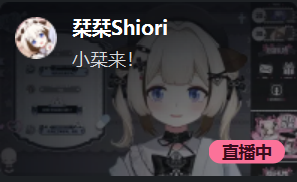
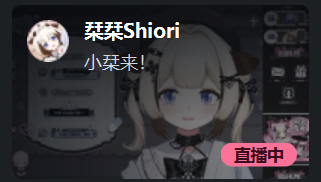
revert(v3/03): 回退「四张队列重排」与「3D 侧转 + 卡片重裁」两步
用户 2026-09-22：回退两步。依次回退：
- 65fe57c fix(v3/03): 队列改成四张，按用户红框的间距与缩小比例重排
- a98ad16 feat(v3/03): 卡片加 3D 侧转 + 重裁去掉卡外灰边（位置先定下来）

回到 40bf99c 的状态：五张卡（间距 326 / 卡宽 600）、卡片图仍带 12px 灰边、
没有 rotationY 侧转。第 3、4 条改动随时可以从这两个提交里挑回来。

diff --git a/videos/dd-monitor-ce-promo/compositions/v3/18-03-hover.html b/videos/dd-monitor-ce-promo/compositions/v3/18-03-hover.html
@@ -55,13 +55,11 @@
       .head .s { margin-top: 16px; font-size: 36px; font-weight: 600; letter-spacing: .16em; color: rgba(255,255,255,.82); text-shadow: 0 2px 14px rgba(16,17,20,.24); }
       .head .bar { width: 84px; height: 4px; background: var(--accent); margin-top: 22px; transform-origin: 0 50%; }
 
-      /* 卡片队列：一排五张，从左下到右上；位置全部由 JS 用 x/y/scale 给。
-         尺寸 600x340 = 原来的两倍。
-         `.stage` 给 perspective —— 卡片各自带 rotationY（用户 2026-09-22：倾斜角度不够），
-         右缘向后 = 左侧离镜头近，与「左边在前、遮挡右边」一致。 */
-      .stage { position: absolute; inset: 0; perspective: 2400px; }
+      /* 卡片队列：一排三张，从左下到右上；位置全部由 JS 用 x/y/scale 给。
+         尺寸 600x340 = 原来的两倍（原 300x200，同时按素材比例 16:9 微调高度）。 */
+      .stage { position: absolute; inset: 0; }
       .card {
-        position: absolute; left: 0; top: 0; width: 600px; height: 368px;
+        position: absolute; left: 0; top: 0; width: 600px; height: 340px;
         border-radius: 22px; overflow: hidden;
         background: var(--card);
         border: 1px solid var(--card-edge);
@@ -85,22 +83,23 @@
         <div class="bar" id="headBar"></div>
       </div>
 
-      <!-- 按用户红框量出的比例排：卡片露出的宽度约占自身 84%（几乎不重叠），
-           左大右小比例 0.67。600 宽的卡按这个间距只能排 **4 张**。
-           其中 card-2 / card-5 / card-7 是**有预览录像的三张，必须保留**，另加 card-4。 -->
+      <!-- 放大两倍后**摆得下的张数**是 5 张（间距 326，每张露出约 55%，接近参考片的重叠度）。
+           其中 card-2 / card-5 / card-7 是**有预览录像的三张，必须保留**；
+           其余按"摆得下"优先留下。用户 2026-09-22：不是只留三张，摆得下就多摆。 -->
       <div class="stage" id="stage">
         <div class="card" id="k1">
           <img class="shot" src="assets/rec/card-2.png" alt="">
           <video class="vid" id="v1" src="assets/rec/rec-preview.mp4" muted playsinline
                  data-start="0.762" data-duration="6.738"></video>
         </div>
-        <div class="card" id="k2"><img class="shot" src="assets/rec/card-4.png" alt=""></div>
-        <div class="card" id="k3">
+        <div class="card" id="k2"><img class="shot" src="assets/rec/card-3.png" alt=""></div>
+        <div class="card" id="k3"><img class="shot" src="assets/rec/card-4.png" alt=""></div>
+        <div class="card" id="k4">
           <img class="shot" src="assets/rec/card-5.png" alt="">
           <video class="vid" id="v2" src="assets/rec/rec-preview.mp4" muted playsinline
                  data-start="3.048" data-duration="4.452"></video>
         </div>
-        <div class="card" id="k4">
+        <div class="card" id="k5">
           <img class="shot" src="assets/rec/card-7.png" alt="">
           <video class="vid" id="v3" src="assets/rec/rec-preview.mp4" muted playsinline
                  data-start="5.334" data-duration="2.166"></video>
@@ -118,15 +117,15 @@
         var EASE_IO = "cubic-bezier(0.77, 0, 0.175, 1)";
         var tl = gsap.timeline({ paused: true });
 
-        /* ---- 队列：四张，从左下到右上排过去 ----
-           间距 440 / 卡宽 600 —— 每张露出约 73%，接近用户红框里"几乎不重叠"的排布。
-           左边近（大、低、**在前**），右边远（小、高、在后）：左遮右。
-           缩小比例 1.000 -> 0.670，也是照红框量出来的（红框左宽 441、右宽 297）。 */
+        /* ---- 队列：五张，从左下到右上排过去 ----
+           左边近（大、低、**在前**），右边远（小、高、在后）—— 左边遮挡右边。
+           间距 326 < 卡宽 600，每张露出约 55%。 */
         var POS = [
-          { x:    6, y: 660, s: 1.000, z: 4 },
-          { x:  446, y: 615, s: 0.890, z: 3 },
-          { x:  886, y: 570, s: 0.780, z: 2 },
-          { x: 1326, y: 525, s: 0.670, z: 1 }
+          { x:    6, y: 640, s: 1.000, z: 5 },
+          { x:  332, y: 606, s: 0.945, z: 4 },
+          { x:  658, y: 572, s: 0.890, z: 3 },
+          { x:  984, y: 538, s: 0.835, z: 2 },
+          { x: 1310, y: 504, s: 0.780, z: 1 }
         ];
         var N = POS.length;
 
@@ -136,8 +135,7 @@
         gsap.set(".vid", { opacity: 0 });
         gsap.set("#cursor", { opacity: 0, x: 1240, y: 940 });
         POS.forEach(function (p, i) {
-          gsap.set("#k" + (i + 1), { x: p.x, y: p.y, scale: p.s, zIndex: p.z, opacity: 0,
-                                     rotationY: 12, transformPerspective: 2400 });
+          gsap.set("#k" + (i + 1), { x: p.x, y: p.y, scale: p.s, zIndex: p.z, opacity: 0 });
         });
 
         /* ---- 入场：标题 + 三张卡依次浮现（0.10 / 0.29 / 0.48，落在拍上） ---- */
@@ -193,10 +191,10 @@
           });
         }
 
-        /* 三轮抽出的是**带录像的那三张**：#k1(card-2) / #k3(card-5) / #k4(card-7) */
+        /* 三轮抽出的是**带录像的那三张**：#k1(card-2) / #k4(card-5) / #k5(card-7) */
         round(0.762, 0, "#v1");
-        round(0.762 + ROUND, 2, "#v2");
-        round(0.762 + ROUND * 2, 3, "#v3");
+        round(0.762 + ROUND, 3, "#v2");
+        round(0.762 + ROUND * 2, 4, "#v3");
 
         tl.to("#cursor", { opacity: 0, duration: 0.30, immediateRender: false }, 7.05);
 
